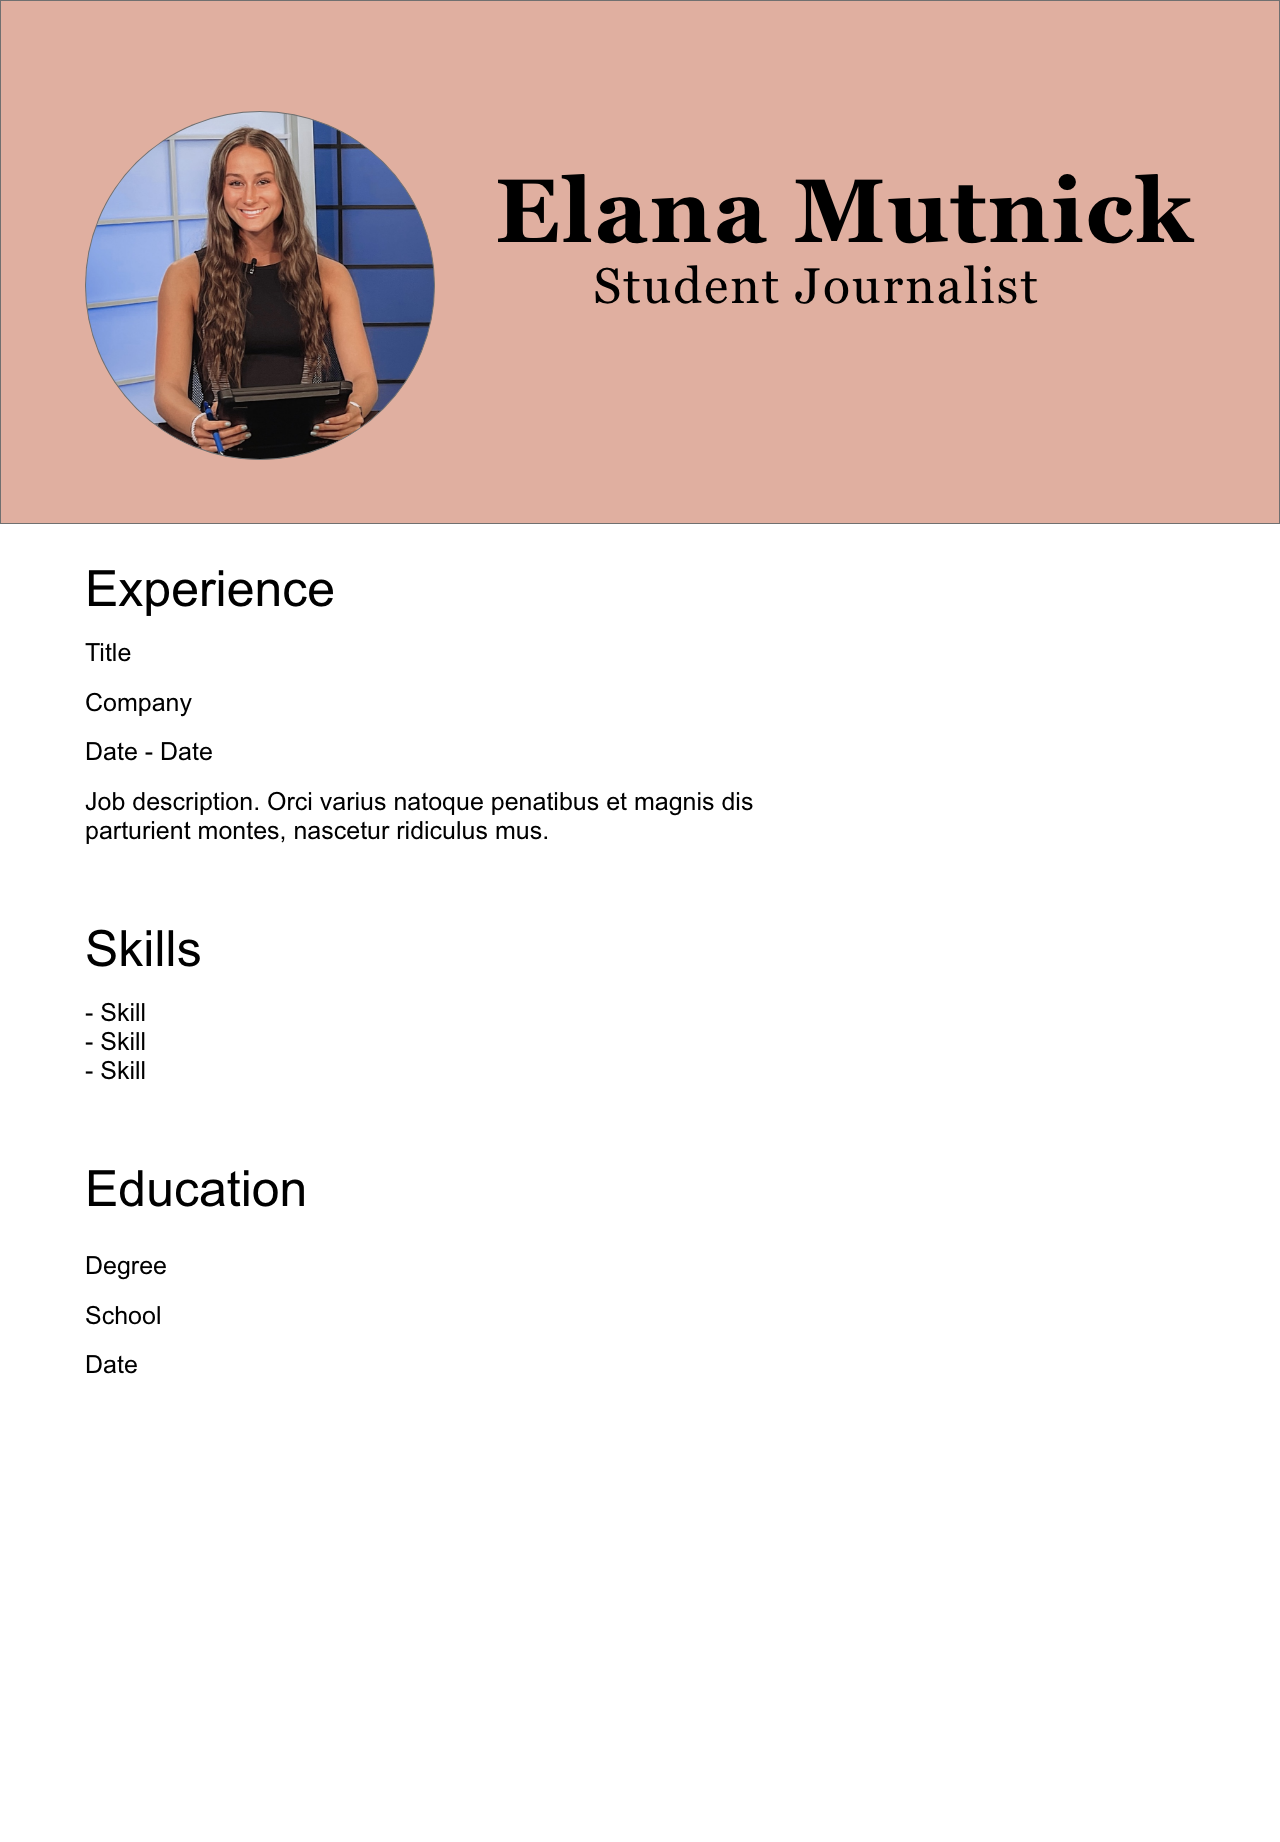
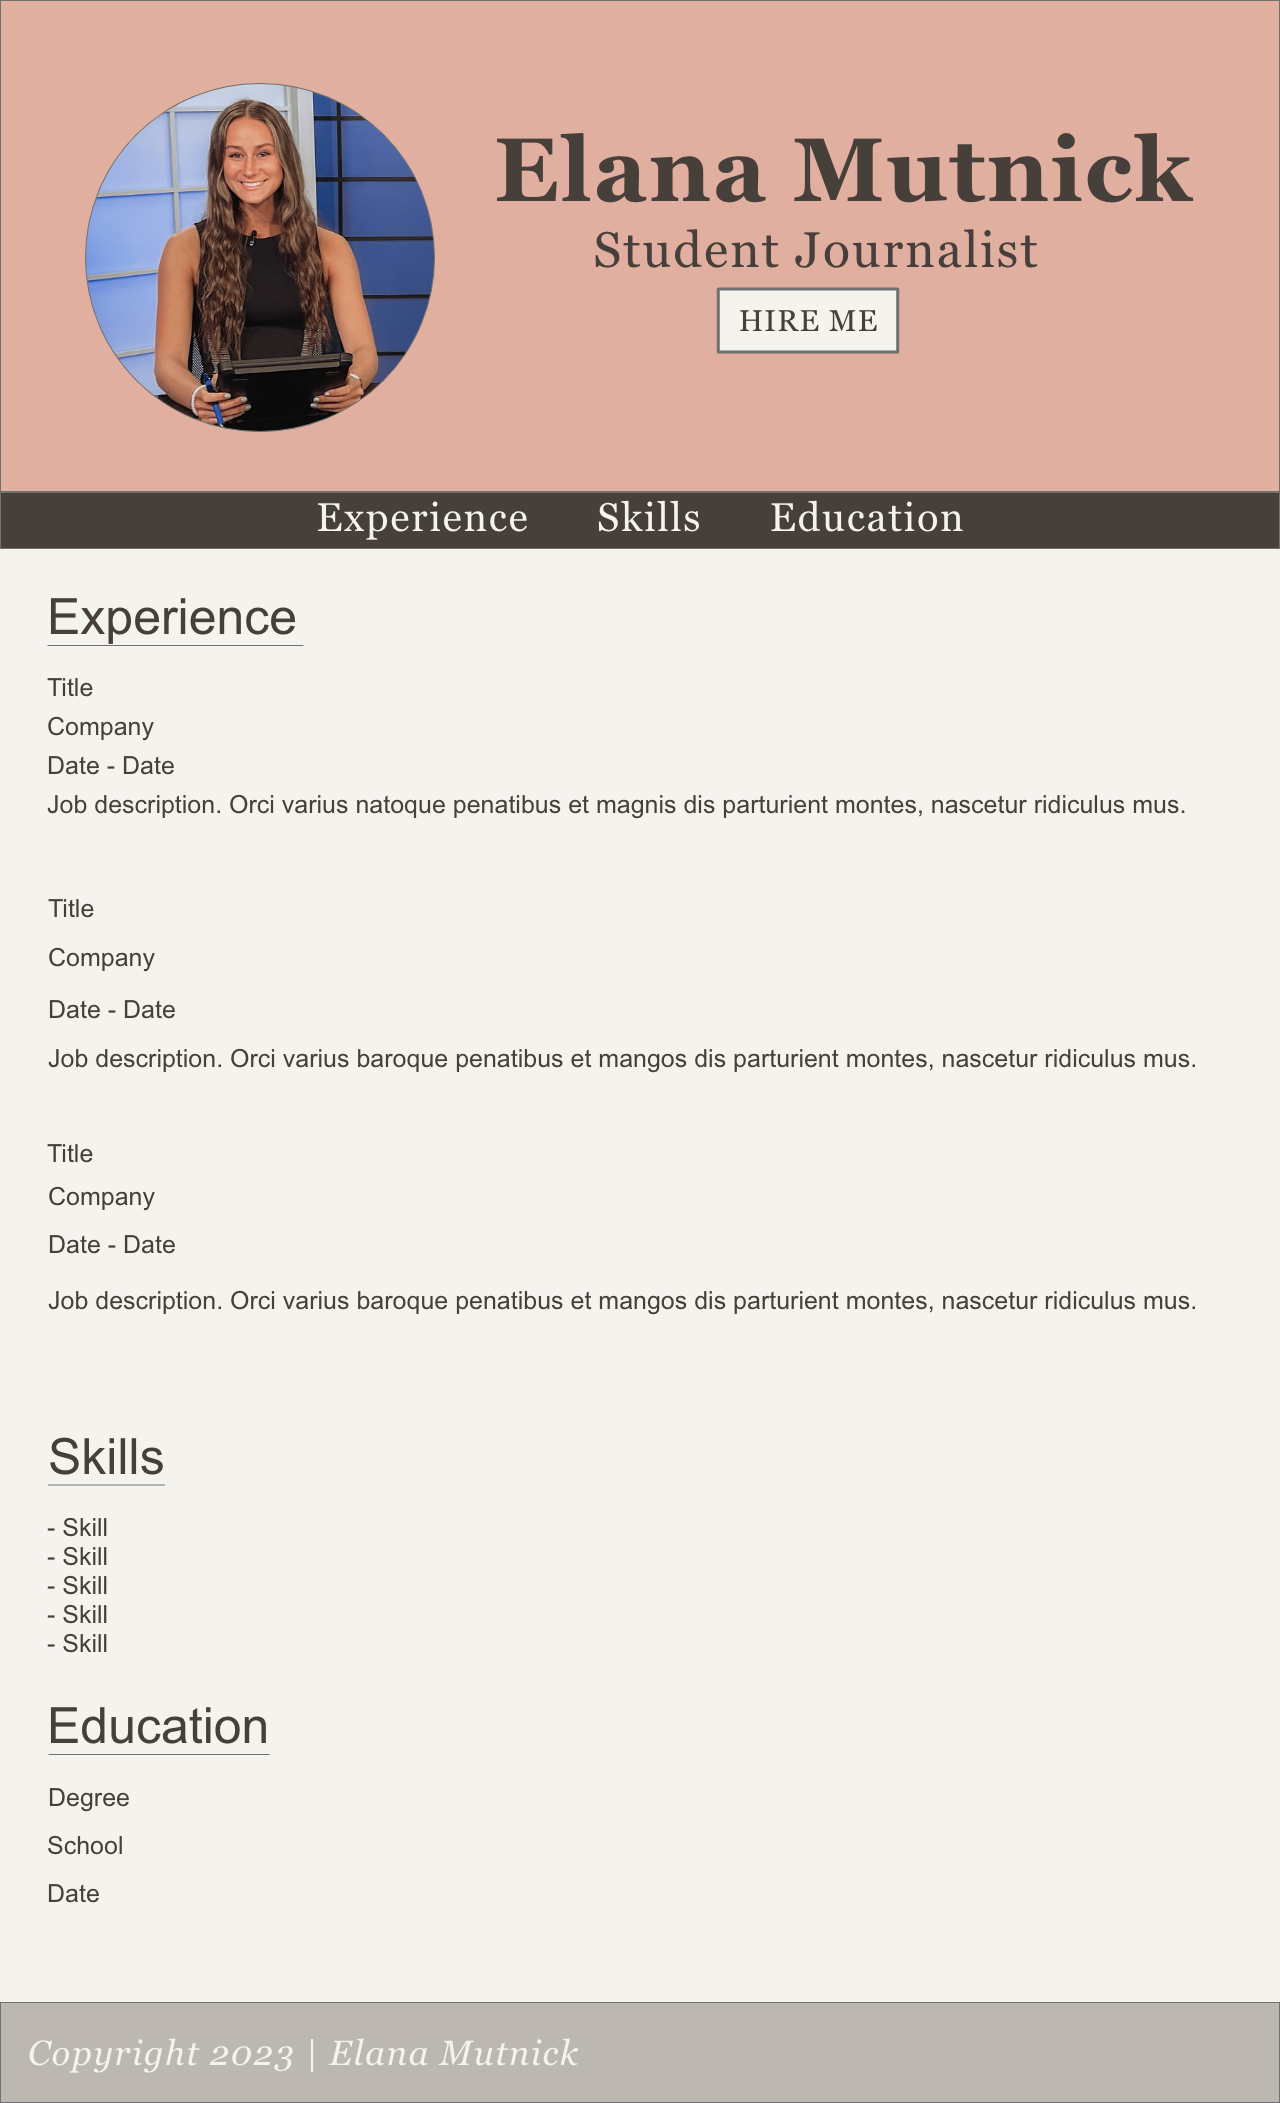
lets gooooo

diff --git a/online-portfolio-project/index.html b/online-portfolio-project/index.html
@@ -14,12 +14,90 @@
     
     <link href="style.css" rel="stylesheet">
     
+    <link rel="preconnect" href="https://fonts.googleapis.com">
+    <link rel="preconnect" href="https://fonts.gstatic.com" crossorigin>
+    <link href="https://fonts.googleapis.com/css2?family=Noto+Serif&display=swap" rel="stylesheet">
+
 </head>
     
 <body>
+    
+    
+    
+<div class="container-fluid">
+    <div class="row" id="topper">
+        <div class="col-sm-6">
+            <img src="elana-mutnick-headshot.jpg" alt="Elana Mutnick headshot" width="200" height="210">
+        </div>
+        
+        <div class="col-sm-6" style="position:absolute; left:300px; top:20px">
+            <h1>
+            Elana Mutnick
+            </h1>
+            <h6>Student Journalist</h6>
+            <button>Hire Me</button>
+        </div>
+    </div> 
+</div>
+        
+<div class="col-md-4">
+<h7>Experience</h7>
+        
+            <h3>Associate Producer</h3>
+            <h4>Terrapin Sports Central</h4>
+            <h5>August 2021 - Present</h5>
+            <p>I cover UMD sports through video and storytelling as well as anchor in weekly shows. I also write script and report play-by-plays, top plays, game statistics, game recaps, and draft watchlists as well as actively tweet play-by-plays in real time for the organization's twitter account. I create gamer packages following each game including standup and press conference clips.</p>
+      
+            <h3>Staff Writer</h3>
+            <h4>Stories Beneath the Shell</h4>
+            <h5>August 2021 - Present</h5>
+            <p>I cover weekly news and feature stories on the University of Maryland community. I also pitch ideas for the following cycle.</p>
+      
+            <h3>Staff Writer and Photographer</h3>
+            <h4>The Campus Trainer</h4>
+            <h5>August 2021 - Present</h5>
+            <p>I edit and fact check content submitted by staff writers for biweekly publication. I also take photographs for my personal published articles. </p>
+      
+            <h3>Treasurer</h3>
+            <h4>Association for Women in Sports Media</h4>
+            <h5>May 2022 - Present</h5>
+            <p>I organize events and panels in support of the advancement of women in sports media and promote and increase diversity in sports media.</p>
+      
+            <h3>Maccabi Media Member</h3>
+            <h4>Maccabi USA</h4>
+            <h5>May 2022 - July 2022</h5>
+            <p>I covered the 21st Maccabiah in Israel through video and storytelling. I created packages, gamers, and feature stories daily, as well as conducting interviews with members of Maccabi. I have experience in color-commentating, sideline reporting, and working with camera equipment. I also created social media content on Tiktok, Instagram and Twitter.</p>
+      
+            <h3>Vice President of Diversity, Equity, and Inclusion</h3>
+            <h4>Kappa Alpha Theta Fraternity</h4>
+            <h5>December 2022 - Present</h5>
+            <p>I promote diversity, equity and inclusion within my chapter through meaningful programs and events such as podcast discussions and movie nights. I educate my chapter on the importance of world issues through necessary discussions.</p>
+</div>
+    
+    <h2>Skills</h2>
+        
+            <ul>
+                <li>Video Editing with Adobe Premiere Pro.</li>
+                <li>Operation of Broadcast and DSLR Cameras.</li>
+                <li>Social Media content creation using platforms such as Instagram, Tiktok, and Twitter.</li>
+                <li>Script Writing using Rundown Creator.</li>
+                <li>Graphic Design using Adobe Photoshop.</li>
+            </ul>
+    
+<h2>Education</h2>
+      
+            <ul><li>Bachelor of Arts, Journalism, University of Maryland, 2025</li></ul>
+    
     <div class="container-fluid">
-        Elana Mutnick
+        <div class="row" id="bottom">
+            <div class="col-sm-6">
+                <p>Copyright 2023 | Elana Mutnick<p>
+            </div>
+        </div>
     </div>
+
+
+    
 </body>
 
 </html>

diff --git a/online-portfolio-project/style.css b/online-portfolio-project/style.css
@@ -1,4 +1,87 @@
 .container-fluid {
-    background-color: beige;   
+    background-color: #bcb8b1;      
+}
+
+h1 {
+    font-size: 40px;
+    font-family: 'Noto Serif', serif;
+    color: #463f3a;
+}
+h2 {
+   font-size: 40px;
+    font-family: 'Noto Serif', serif;
+    color: #463f3a; 
+}
+
+p {
+    font-family: 'Noto Serif', serif;
+    color: #463f3a;
+}
+
+h2 {
+    font-family: 'Noto Serif', serif;
+    color: #463f3a;
+}
+
+h3 {
+    font-family: 'Noto Serif', serif;
+    color: #463f3a;
+}
+
+h4 {
+    font-family: 'Noto Serif', serif;
+    color: #463f3a;
+}
+
+h5 {
+    font-family: 'Noto Serif', serif;
+    color: #463f3a;
+}
+
+h6 {
+  font-size: 20px;
+    font-family: 'Noto Serif', serif;
+    color: #463f3a;  
+}
+
+h7 {
+    font-size: 40px;
+    font-family: 'Noto Serif', serif;
+    color: #463f3a;
+}
+
+li {
+    font-family: 'Noto Serif', serif;
+    color: #463f3a;
+}
+
+#topper {
+    background-color:#e0afa0;
+}
+
+<style>
+.bi {
+    font-size: 3em;
+}
+
+.col-md-4 {
     
+}
+
+#bottom {
+    background-color: #bcb8b1;
+}
+
+img {
+    border-radius: 50%
+}
+
+button {
+    background-color: #f4f3ee;
+    color:#463f3a;
+    font-family: 'Noto Serif', serif;
+    width: 85px;
+    padding: 10px;
+    border: none;
+    border-radius: 8px;
 }
